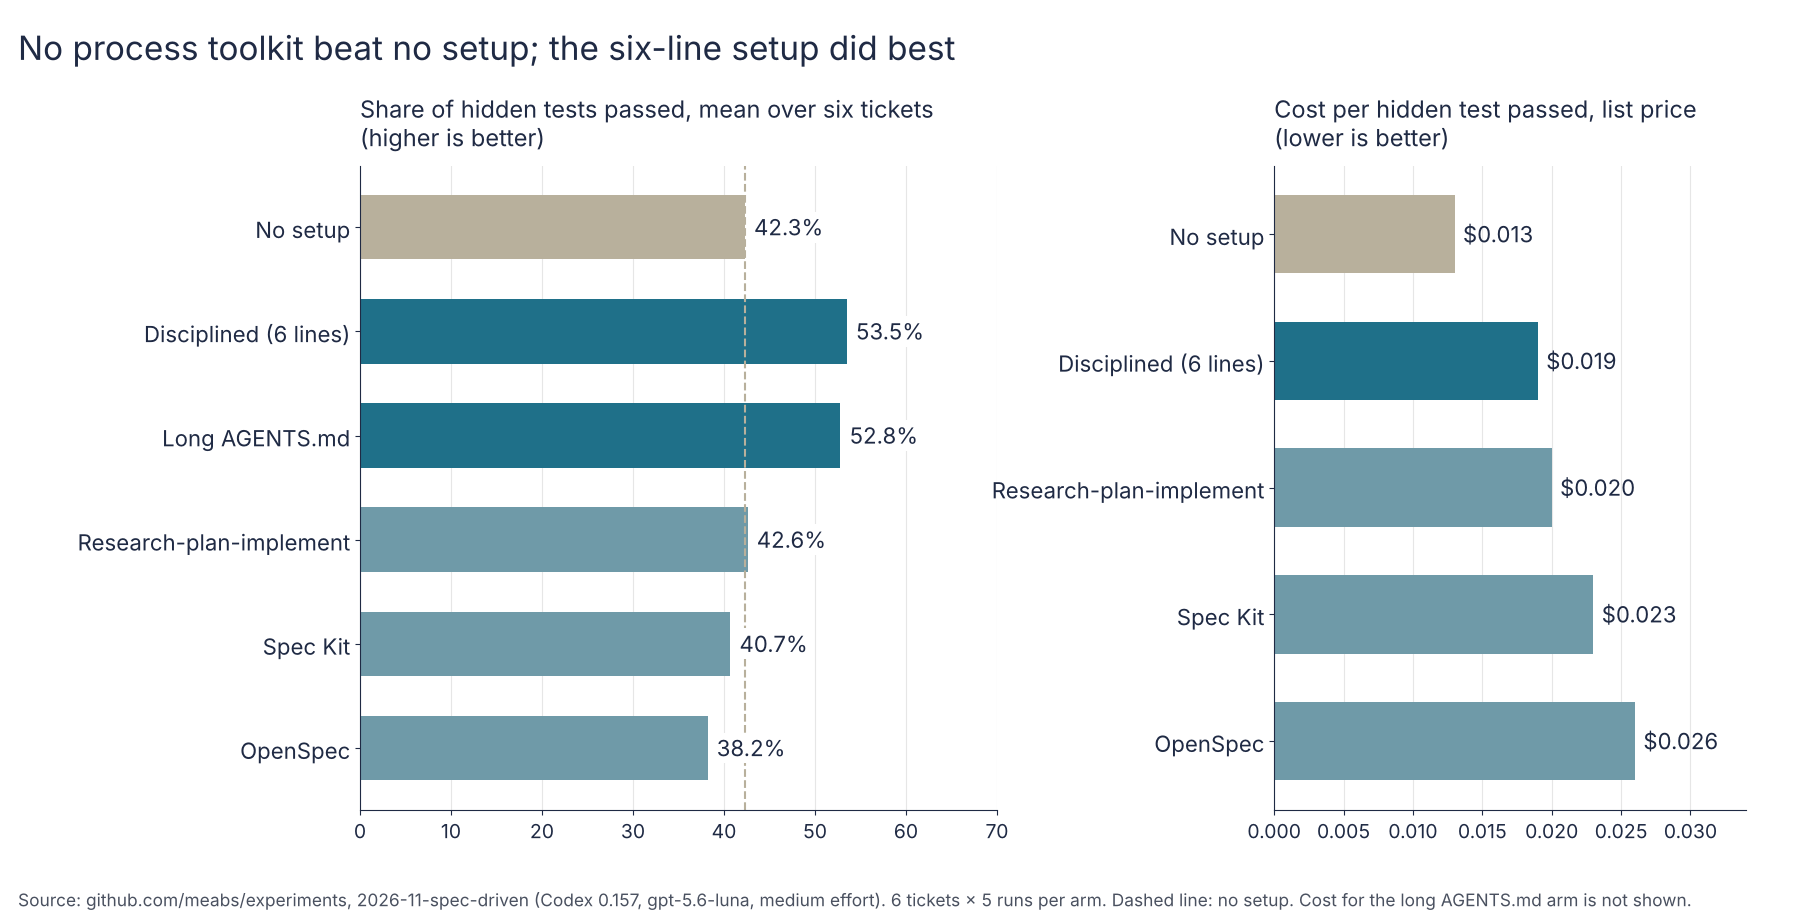
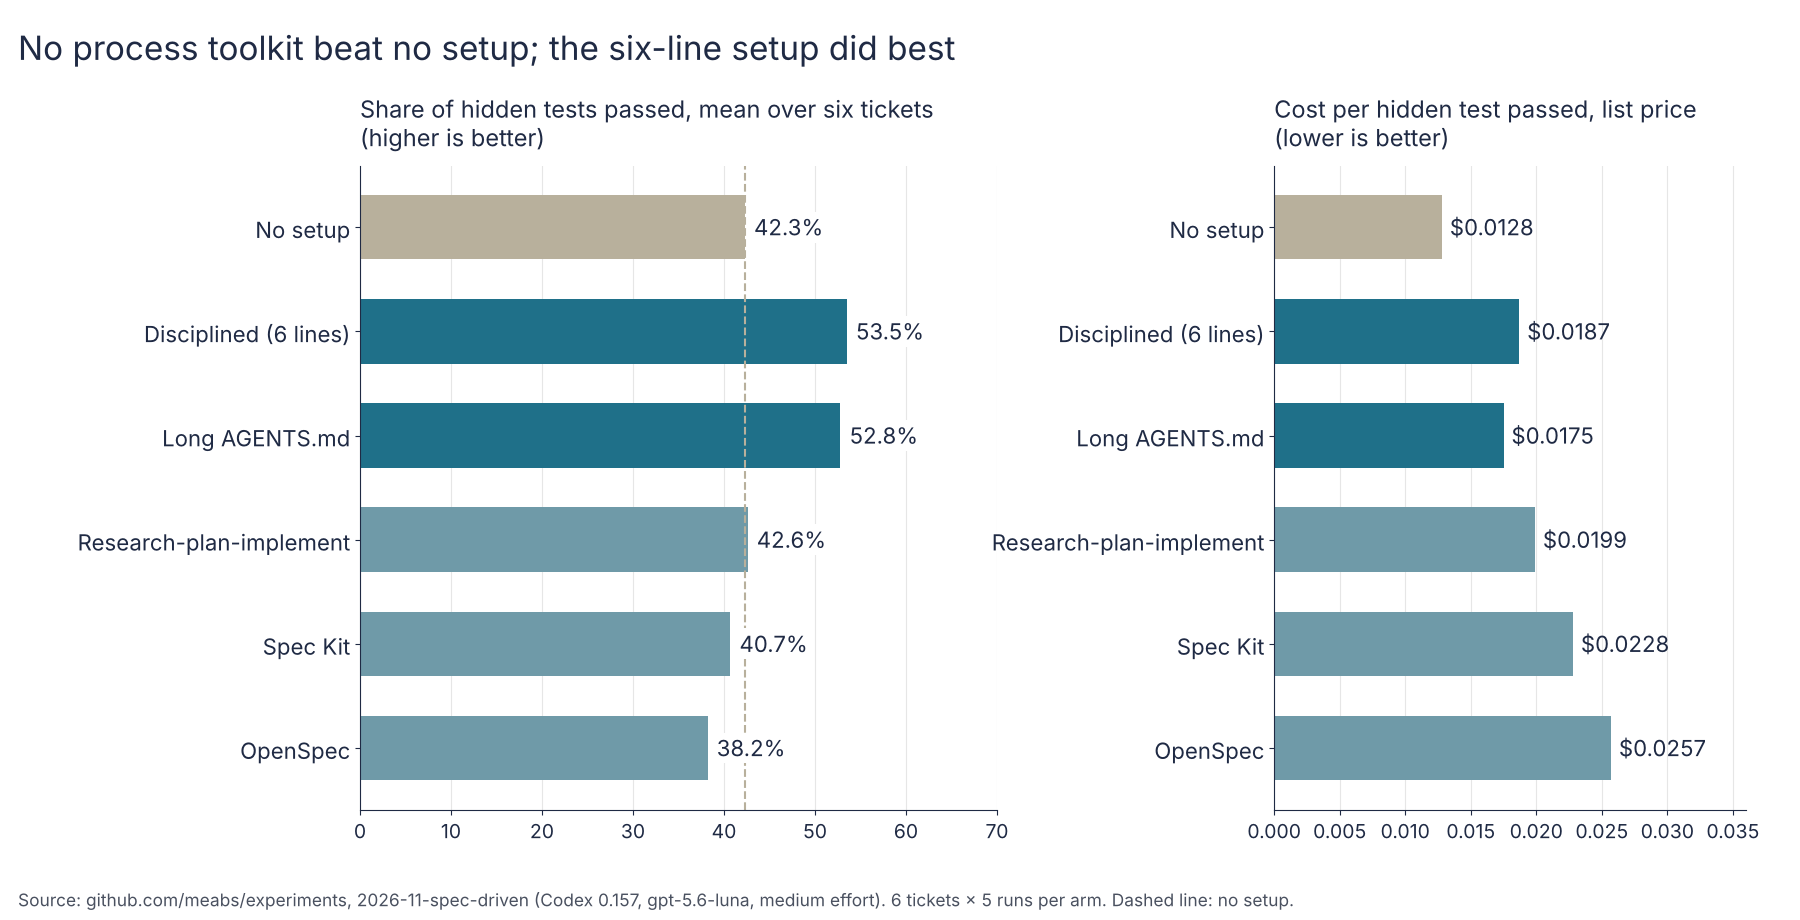
Check against experiments repo: fix SEC corrected breach count, add SDD per-ticket, cost and run-check data
Claude-Session: https://claude.ai/code/session_01JerBAedEWwSG6XkHaEVj6m

Changed region(s): [[0.56, 0.213, 0.9644, 0.8522], [0.7156, 0.8826, 0.9956, 0.913], [0.7156, 0.9739, 0.9333, 1.0]]

diff --git a/src/content/experiments/spec-driven.md b/src/content/experiments/spec-driven.md
@@ -21,7 +21,7 @@ repo: "https://github.com/meabs/experiments"
 report: "https://github.com/meabs/experiments/blob/121485546003956824fa7b3dcd959730cb2399f7/2026-11-spec-driven/REPORT.md"
 prediction: "https://github.com/meabs/experiments/blob/121485546003956824fa7b3dcd959730cb2399f7/2026-11-spec-driven/README.md"
 previewImage: "/guide-images/chart-sdd-process.png"
-previewAlt: "Share of hidden tests passed, mean over six tickets, higher is better: no setup 42.3%, six-line disciplined setup 53.5%, long AGENTS.md 52.8%, research-plan-implement 42.6%, Spec Kit 40.7%, OpenSpec 38.2%. Cost per hidden test passed, lower is better: no setup $0.013, disciplined $0.019, research-plan-implement $0.020, Spec Kit $0.023, OpenSpec $0.026."
+previewAlt: "Share of hidden tests passed, mean over six tickets, higher is better: no setup 42.3%, six-line disciplined setup 53.5%, long AGENTS.md 52.8%, research-plan-implement 42.6%, Spec Kit 40.7%, OpenSpec 38.2%. Cost per hidden test passed, lower is better: no setup $0.0128, disciplined $0.0187, long AGENTS.md $0.0175, research-plan-implement $0.0199, Spec Kit $0.0228, OpenSpec $0.0257."
 topics:
   - skills
   - briefs
@@ -192,7 +192,7 @@ Findings SDD-1 to SDD-6 are at the top of the page.
 
 <figure class="guide-figure">
 
-<img src="/guide-images/chart-sdd-process.png" alt="Share of hidden tests passed, mean over six tickets, higher is better: no setup 42.3%, six-line disciplined setup 53.5%, long AGENTS.md 52.8%, research-plan-implement 42.6%, Spec Kit 40.7%, OpenSpec 38.2%. Cost per hidden test passed, lower is better: no setup $0.013, disciplined $0.019, research-plan-implement $0.020, Spec Kit $0.023, OpenSpec $0.026." width="1800" height="920" loading="lazy" />
+<img src="/guide-images/chart-sdd-process.png" alt="Share of hidden tests passed, mean over six tickets, higher is better: no setup 42.3%, six-line disciplined setup 53.5%, long AGENTS.md 52.8%, research-plan-implement 42.6%, Spec Kit 40.7%, OpenSpec 38.2%. Cost per hidden test passed, lower is better: no setup $0.0128, disciplined $0.0187, long AGENTS.md $0.0175, research-plan-implement $0.0199, Spec Kit $0.0228, OpenSpec $0.0257." width="1800" height="920" loading="lazy" />
 
 <figcaption>The three process setups did no better than no setup, and cost more per hidden test passed. The six-line setup did best. Source: github.com/meabs/experiments, 2026-11-spec-driven (Codex 0.157, gpt-5.6-luna, medium effort).</figcaption>
 
@@ -204,16 +204,16 @@ A process was followed every time: all 90 runs of the three process arms left th
 
 Each cell is the mean share of hidden tests passed per run, each ticket counted equally (higher is better).
 
-| Setup | Hidden tests passed | Cost per hidden test passed |
-| --- | --- | --- |
-| No setup | 42.3% | $0.013 |
-| Disciplined | 53.5% | $0.019 |
-| Long AGENTS.md | 52.8% | not reported |
-| Research, plan, implement | 42.6% | $0.020 |
-| Spec Kit | 40.7% | $0.023 |
-| OpenSpec | 38.2% | $0.026 |
+| Setup | Hidden tests passed | Runs passing every test | Cost per run | Cost per hidden test passed |
+| --- | --- | --- | --- | --- |
+| No setup | 42.3% | 1 of 30 | $0.063 | $0.0128 |
+| Disciplined | 53.5% | 2 of 30 | $0.115 | $0.0187 |
+| Long AGENTS.md | 52.8% | 3 of 30 | $0.107 | $0.0175 |
+| Research, plan, implement | 42.6% | 1 of 30 | $0.098 | $0.0199 |
+| Spec Kit | 40.7% | 1 of 30 | $0.106 | $0.0228 |
+| OpenSpec | 38.2% | 0 of 30 | $0.112 | $0.0257 |
 
-Costs are estimates at list prices.
+Costs are estimates at list prices ($0.20, $0.02 and $1.20 per million input, cached and output tokens); the whole experiment cost about $18.
 
 ### Hypotheses
 
@@ -222,27 +222,48 @@ Costs are estimates at list prices.
 | H1 | Spec Kit − no setup | −1.6 points (−11.3 to +8.0), Holm p 1.00 | no measurable difference |
 | H2 | OpenSpec − no setup | −4.2 points (−14.9 to +5.8), Holm p 1.00 | no measurable difference |
 | H3 | research-plan-implement − no setup | +0.3 points (−10.7 to +11.1), Holm p 1.00 | no measurable difference |
-| H4 | each process arm vs the disciplined setup | Spec Kit −12.8 (−21.3 to −3.6), OpenSpec −15.3, research-plan-implement −10.9 | none beat it; "worse than" is exploratory |
+| H4 | research-plan-implement − disciplined | −10.9 points (−20.5 to −0.9), Holm p 1.00 | holds: does not beat it |
+| H4 | Spec Kit − disciplined | −12.8 points (−21.3 to −3.6), Holm p 1.00 | holds: does not beat it |
+| H4 | OpenSpec − disciplined | −15.3 points (−24.6 to −5.8), Holm p 1.00 | holds: does not beat it |
 | H5 | long AGENTS.md − short | −0.7 points (−10.7 to +9.6), one-sided p 0.45 | not supported |
 
 - **The difference** is in percentage points of hidden tests passed, averaged over the six tickets, with a 95% interval within ticket.
-- **The Holm p** is the chance of a difference this large if there were really none, corrected for testing three hypotheses. Below 0.05 counts as measurable.
+- **The Holm p** is the chance of a difference this large if there were really none, corrected within each group of hypotheses (H1 to H3 together, the three H4 comparisons together, H5 alone). Below 0.05 counts as measurable.
 - **"No measurable difference"** means the test couldn't tell the setups apart, not that they're equal.
-- **Against no setup,** the disciplined and long files were each about 10 points ahead (exploratory: +11.1 and +10.4, Holm p 0.065 for both), which is not clearly different from no setup after correction.
+- **The intervals for the three process arms against the disciplined setup exclude zero,** but only the "does not beat" direction was pre-registered, so "worse than" is exploratory.
+- **Against no setup,** the disciplined and long files were each about 10 points ahead (exploratory, added afterwards: disciplined +11.1, interval +0.1 to +21.4; long +10.4, interval −0.7 to +21.2; Holm p 0.065 for both), which is not clearly different from no setup after correction.
 
 ### Where the failures were
 
-- **PRODUCTDELETE is all or nothing:** a run either finds the hidden cause or passes one test of eleven. Spec Kit found it in 0 of 5 runs against 2 of 5 with no setup, and OpenSpec found it in none of its five. That ticket accounts for their gap to no setup, and it is five runs per cell. Without it, Spec Kit is about 5 points ahead, still within noise.
-- **SUPPORTORDERS:** OpenSpec passed 53% against 70% for every other arm except research-plan-implement.
-- **Few runs passed everything:** 1 of 30 with Spec Kit and 1 of 30 with no setup; 0 of 30 with OpenSpec.
+Mean share of hidden tests passed, five runs per cell:
+
+| Ticket | No setup | Disciplined | Long | R-P-I | Spec Kit | OpenSpec |
+| --- | --- | --- | --- | --- | --- | --- |
+| CATEGORYDELETE | 44% | 53% | 62% | 58% | 67% | 60% |
+| CUSTOMERCART | 22% | 22% | 20% | 18% | 20% | 22% |
+| PRODUCTDELETE | 42% | 62% | 64% | 40% | 9% | 9% |
+| REVIEWS | 24% | 54% | 34% | 20% | 32% | 34% |
+| STOCK | 52% | 60% | 67% | 55% | 47% | 51% |
+| SUPPORTORDERS | 70% | 70% | 70% | 65% | 70% | 53% |
+
+- **PRODUCTDELETE is all or nothing:** a run either finds the hidden cause (9 to 11 of 11 tests) or passes 1 of 11. Runs that found it: no setup 2 of 5, disciplined 2 of 5 (plus two partial at 6), long 2 of 5 (two partial), research-plan-implement 2 of 5, Spec Kit 0 of 5, OpenSpec 0 of 5. That one ticket accounts for all of Spec Kit's and OpenSpec's gap to no setup; without it, OpenSpec would be about 2 points and Spec Kit about 5 points ahead, still within noise.
+- **CUSTOMERCART was hard for every setup,** between 18% and 22%.
+- **SUPPORTORDERS:** OpenSpec passed 53% against 70% for every other arm except research-plan-implement (65%).
+- **Few runs passed everything:** 0 to 3 of 30 in every arm.
 
 ### Cost
 
-Every setup roughly doubled the tokens: about 1.9 million per run with no setup against 3.1 to 3.7 million with the others. OpenSpec's changes were the largest, 11.6 files per run on average against 5.9 with no setup. At list prices, a hidden test passed cost $0.013 with no setup and $0.019 to $0.026 with the others.
+Every setup roughly doubled the tokens: about 1.9 million per run with no setup against 3.1 to 3.7 million with the others. A run cost $0.063 with no setup and $0.098 to $0.115 with the others, about 1.5 to 2 times as much. The process arms changed more files per run, on average 5.9 with no setup, 6.6 disciplined, 6.8 long, 8.3 research-plan-implement, 9.6 Spec Kit and 11.6 OpenSpec.
 
 ### What the agent said about its own work
 
-Among runs that missed hidden tests, the final message said the work was done and passed, admitting nothing unfinished, in 27 of 29 with no setup, 28 of 28 disciplined, 29 of 29 research-plan-implement, 28 of 30 OpenSpec and 13 of 29 Spec Kit. Spec Kit's agent said "partial" in 11 of its 29 failing runs; none of the no-setup, disciplined or research-plan-implement runs did. It was more candid, not more correct. This is exploratory and a mechanical rule on the final message: it measures what the agent said, not what it knew.
+Among runs that missed hidden tests, the final message said the work was done and passed, admitting nothing unfinished, in 27 of 29 with no setup, 28 of 28 disciplined, 26 of 27 long, 29 of 29 research-plan-implement, 28 of 30 OpenSpec and 13 of 29 Spec Kit. Spec Kit's agent said "partial" in 11 of its 29 failing runs; none of the no-setup, disciplined or research-plan-implement runs did. It was more candid, not more correct. This is exploratory and a mechanical rule on the final message: it measures what the agent said, not what it knew.
+
+### Checks on the runs
+
+- **All 180 runs finished and compiled.** One Spec Kit run lost its connection and was re-run.
+- **The process was used, not skipped:** all 30 runs of each process arm left the files it asks for (counted from the files in each change, not from the summary).
+- **My first count was wrong.** It read only shell commands and said research-plan-implement used its notes files in 10 of 30 runs; counting files in the change gives 30 of 30, and the page uses that.
 
 ## Limits
 

diff --git a/src/content/experiments/sec-authz.md b/src/content/experiments/sec-authz.md
@@ -81,7 +81,7 @@ findings:
       - "fault 1: a hidden test assumed admins could rename accounts, which nothing said; fixed and regraded"
       - "fault 2: a gate test's name implied the wrong rule, and agents followed it in 8 of 20 runs; renamed and rerun"
       - "the gate didn't measurably beat no help: +6 points (−1 to +12.5), Holm p 0.19"
-      - "the gate fixed response conventions (wrong-denial-code failures fell from 5 of 80 to 0) but not genuine access breaches: 10 of 80 corrected for the gate and 9 of 80 for both, against 9 of 80 with no help"
+      - "the gate fixed response conventions (wrong-denial-code failures fell from 5 of 80 to 0) but not genuine access breaches: 10 of 80 corrected for the gate and 10 of 80 for both (9 four-eyes breaches and 1 data exposure), against 9 of 80 with no help"
     limits:
       - "the corrections were decided after seeing the runs; the pre-registered result stays the primary one"
       - "the S08 fix repaired a hidden grader and regraded saved runs; the S05 fix changed what the agents were told and needed 20 new runs, so the corrected comparison is a revised condition, not a confirmation"
@@ -237,7 +237,7 @@ Each cell is runs passed out of 10, pre-registered runs (higher is better).
 
 - **The gate's clearest win was a convention.** Its public test `anotherCustomerGets404` told the agent the 404 rule directly.
 - **The skill was opened in every run,** but its general points didn't change what the agent did.
-- **The closure-approval hole survived everything,** and it accounts for all 9 genuine baseline access breaches. The agents checked role, tenant and state correctly, then recorded the approver without comparing them with the requester. Neither safeguard mentioned it. The gate cut wrong-denial-code failures from 5 of 80 to 0, but it didn't reduce genuine access breaches (9 of 80 with no help; 10 with the corrected gate, 9 with both).
+- **The closure-approval hole survived everything,** and it accounts for all 9 genuine baseline access breaches. The agents checked role, tenant and state correctly, then recorded the approver without comparing them with the requester. Neither safeguard mentioned it. The gate cut wrong-denial-code failures from 5 of 80 to 0, but it didn't reduce genuine access breaches (9 of 80 with no help; 10 with the corrected gate, 10 with both).
 
 ### Cost
 
